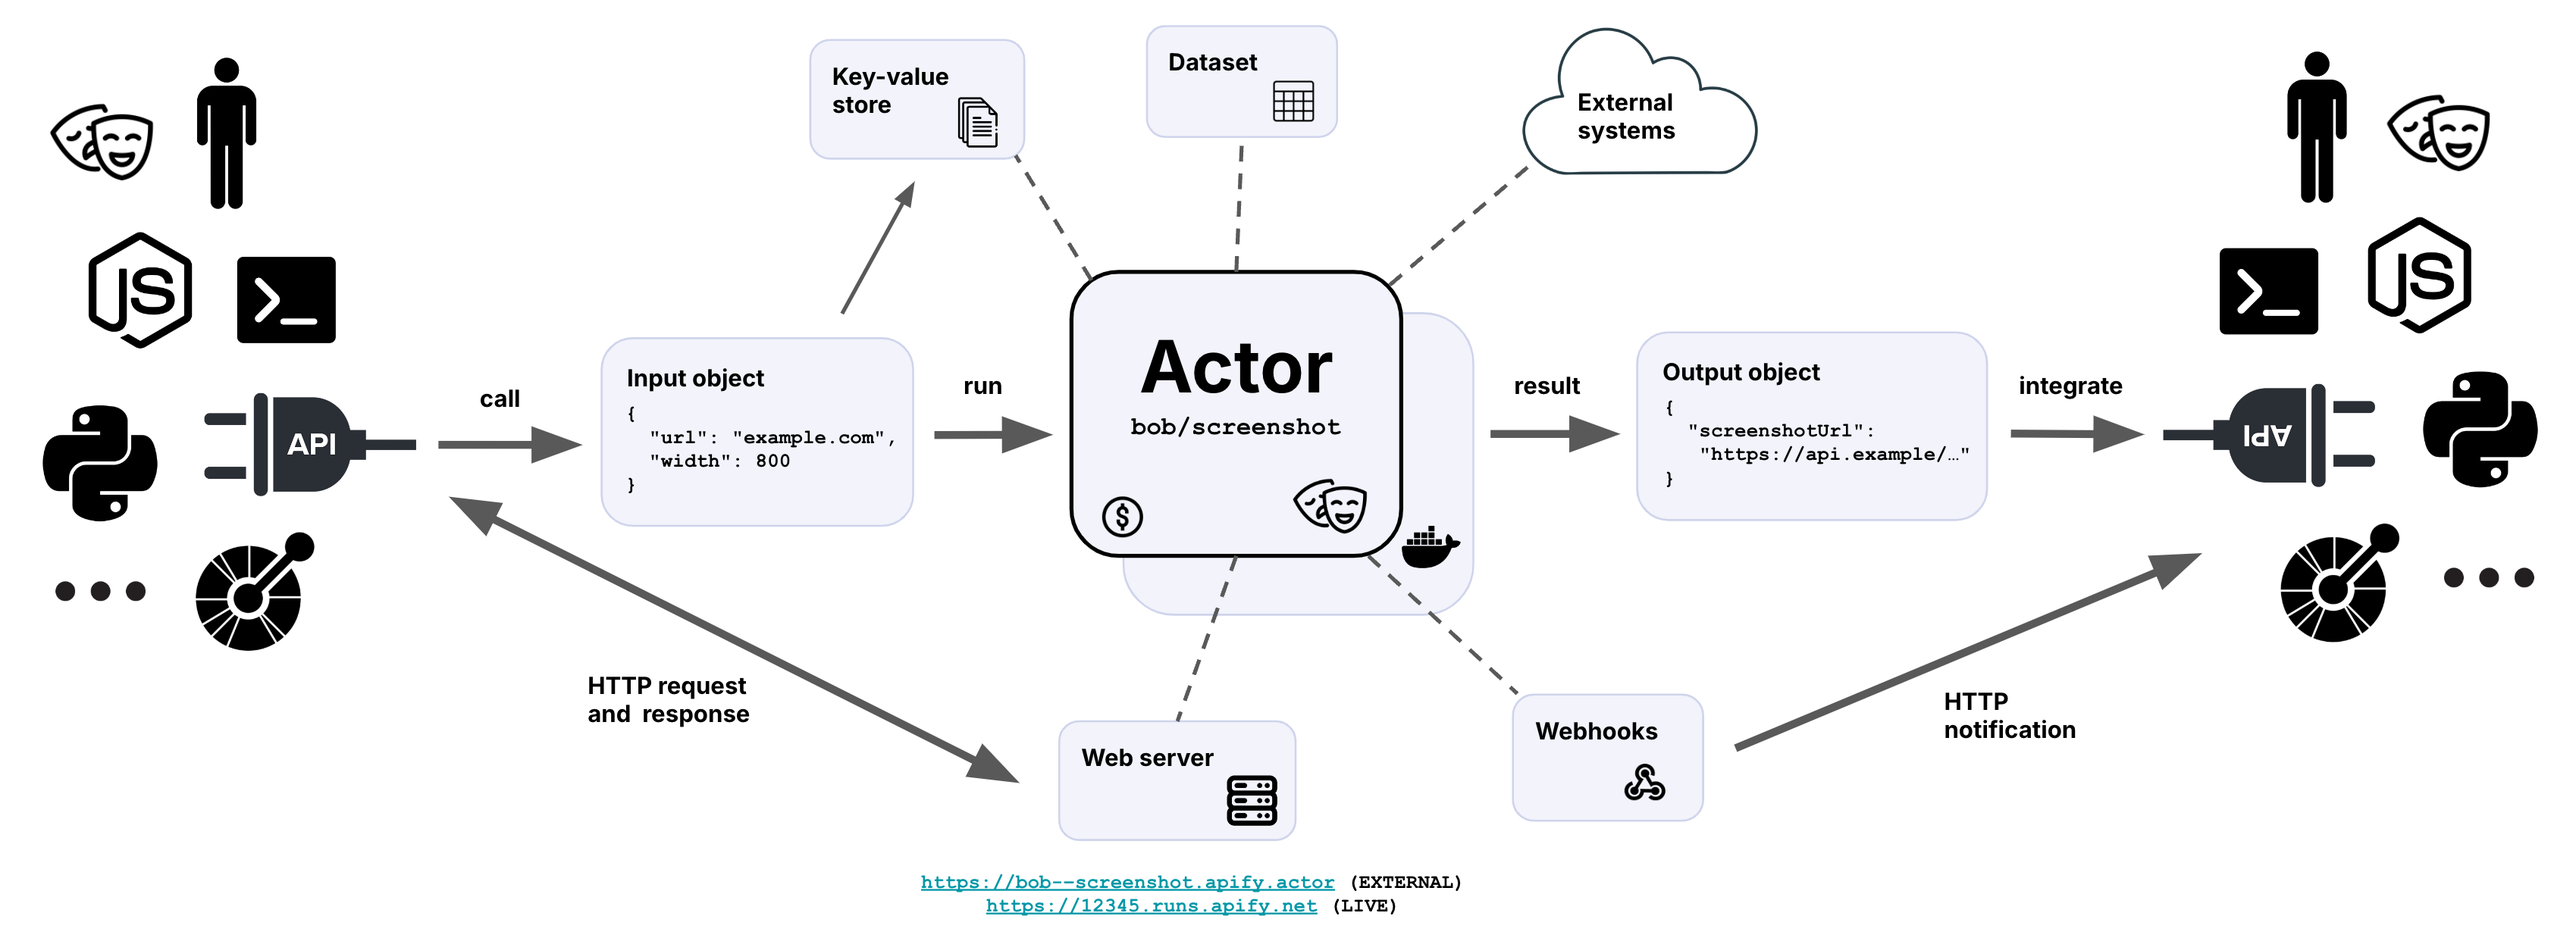
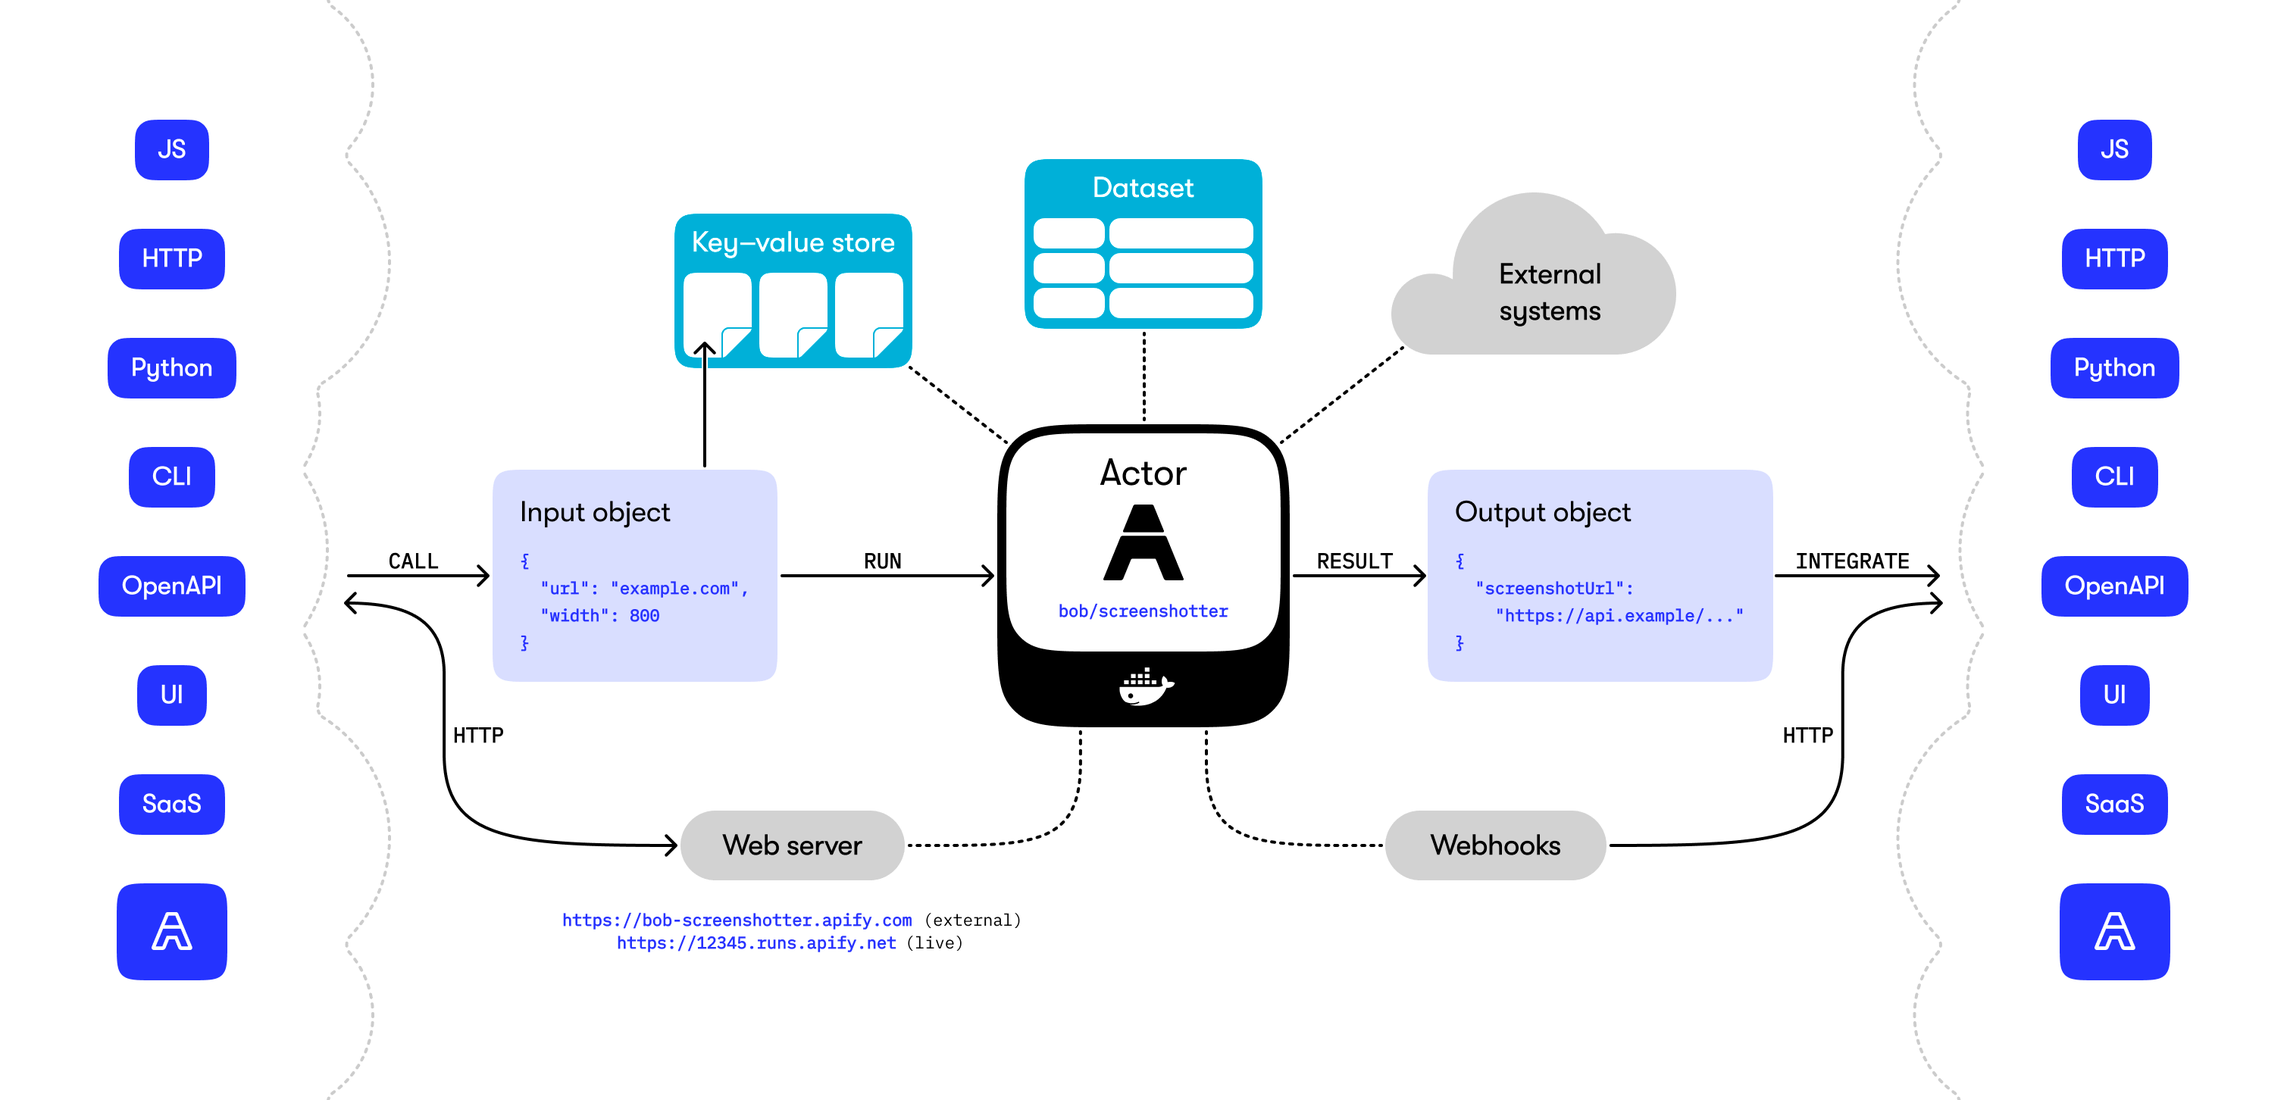
Rename Actor from `screenshot-taker` to `screenshotter`, and update Diagram
Updated the README documentation to reflect the renaming of the Actor from `bob/screenshot-taker` to `bob/screenshotter`. This change affects various sections including examples of input and output objects, URLs, and schema titles.

- Modified references to the Actor's name in JSON examples, UI descriptions, and public URLs.
- Updated image references related to the Actor's input UI.
- Adjusted schema file examples for both input and output to match the new Actor name.

diff --git a/README.md b/README.md
@@ -173,7 +173,7 @@ Each Actor accepts an **input object**, which tells it what it should do.
 The object is passed in JSON format, and its properties have
 a similar role as command-line arguments when running a program in a UNIX-like operating system.
 
-For example, an input object for an Actor `bob/screenshot-taker` can look like this:
+For example, an input object for an Actor `bob/screenshotter` can look like this:
 
 ```json
 {
@@ -194,7 +194,7 @@ and simplify integration with external systems.
 
 #### Example of auto-generated Actor input UI
 
-![Screenshot Taker Input UI](./img/screenshot-taker-input.png)
+![Screenshotter Input UI](./img/screenshot-taker-input.png)
 
 ### Run environment
 
@@ -237,14 +237,14 @@ This is useful to automatically generate UI previews of the results, API example
 and integrations.
 
 The output object is similar to the input object, as it contains properties and values.
-For example, for the `bob/screenshot-taker` Actor, the output object can look like this:
+For example, for the `bob/screenshotter` Actor, the output object can look like this:
 
 ```jsonc
 {
   "screenshotUrl": "https://api.apify.com/v2/key-value-stores/skgGkFLQpax59AsFD/records/screenshot.jpg",
   "productImages": "https://api.apify.com/v2/key-value-stores/skgGkFLQpax59AsFD/records/product*.jpg",
   "productDetails": "https://api.apify.com/datasets/9dFknjkxxGkspwWd/records?fields=url,name",
-  "productExplorer": "https://bob--screenshot.apify.actor/product-explorer",
+  "productExplorer": "https://bob-screenshotter.apify.com/product-explorer",
   // or this with live view
   "productExplorer": "https://13413434.runs.apify.net/product-explorer"
 }
@@ -1281,7 +1281,7 @@ and will automatically start or abort an Actor run as needed by the volume of HT
 The external Standby public URL might look like this:
 
 ```
-https://bob--screenshot-taker.apify.actor
+https://bob-screenshotter.apify.com
 ```
 
 Unlike the live view URL reported in the `ACTOR_WEB_SERVER_URL` environment variable,
@@ -1433,8 +1433,8 @@ For details, see the [Actor file specification](./pages/ACTOR_FILE.md) page.
 ```json
 {
   "actorSpecification": 1,
-  "name": "screenshot-taker",
-  "title": "Screenshot Taker",
+  "name": "screenshotter",
+  "title": "Screenshotter",
   "description": "Take a screenshot of any URL",
   "version": "0.0",
   "input": "./input_schema.json",
@@ -1547,12 +1547,12 @@ The input schema file defines properties accepted by Actor on input. It is used 
 
 For details, see [Actor input schema file specification](./pages/INPUT_SCHEMA.md).
 
-This is an example of the input schema file for the `bob/screenshot-taker` Actor::
+This is an example of the input schema file for the `bob/screenshotter` Actor::
 
 ```json
 {
   "actorInputSchemaVersion": 1,
-  "title": "Input schema for Screenshot Taker Actor",
+  "title": "Input schema for Screenshotter Actor",
   "description": "Enter a web page URL and it will take its screenshot with a specific width",
   "type": "object",
   "properties": {
@@ -1594,12 +1594,12 @@ The output schema describes how the Actor stores its results, and it is used by 
 
 For details, see [Actor output schema file specification](./pages/OUTPUT_SCHEMA.md).
 
-This is an example of the output schema file for the `bob/screenshot-taker` Actor:
+This is an example of the output schema file for the `bob/screenshotter` Actor:
 
 ```json
 {
   "actorOutputSchemaVersion": 1,
-  "title": "Output schema for Screenshot Taker Actor",
+  "title": "Output schema for Screenshotter Actor",
   "description": "The URL to the resulting screenshot",
   "properties": {
 
@@ -1766,7 +1766,7 @@ Once an Actor is developed, the Actor platform lets you share it with other spec
 and decide whether you want to make its source code open or closed.
 
 You can also publish the Actor for anyone to use on a marketplace like [Apify Store](https://apify.com/store).
-The Actor will get a public landing page like `https://apify.com/bob/screenshot-taker`,
+The Actor will get a public landing page like `https://apify.com/bob/screenshotter`,
 showing its README, description of inputs, outputs, API examples, etc.
 Once published, your Actor is automatically exposed to organic traffic of users and potential customers.
 
